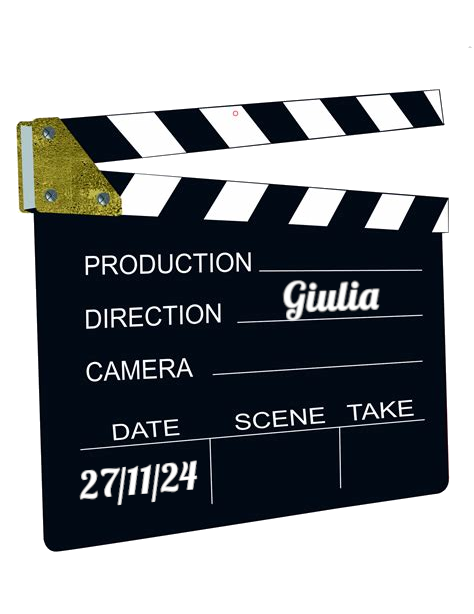
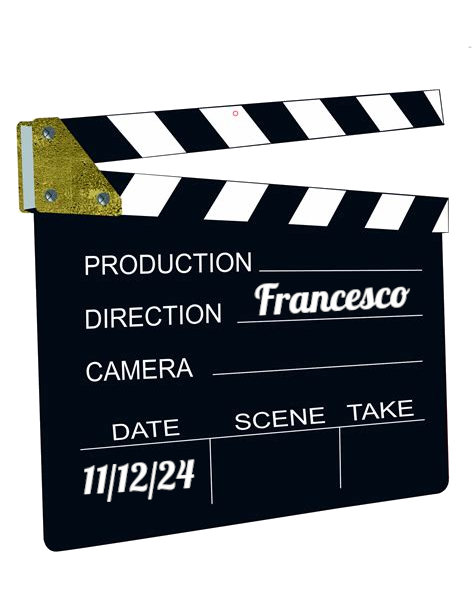
Giurato numero 2

Changed region(s): [[0.5316, 0.4332, 0.8861, 0.5261], [0.1477, 0.7427, 0.4135, 0.8355]]

diff --git a/index.html b/index.html
@@ -36,16 +36,12 @@
 
 <h1 class="season">Stagione 2024 / 2025</h1>
 
-<!--
 <br /><br /><hr width="90%"><hr width="90%"><br /><br />
 
 <h1>Mercoled&igrave; 11 dicembre 2024</h1>
 <h2>Alle 20:30 in Via Nizza, 72</h2>
 <img src="img/ciak.png" class="locandina"/>
-<h2>Selezionatore: <i></i></h2>
-
-<br /><br /><hr width="90%"><hr width="90%"><br /><br />
--->
+<h2>Selezionatore: <i>Francesco</i></h2>
 
 <br /><br /><hr width="90%"><hr width="90%"><br /><br />
 
@@ -58,9 +54,7 @@
 
 <h2><i>In trasferta al <a href="https://www.cinemaaquila.it/" target="_blank">Nuovo Cinema Aquila</a></i></h2>
 
-
-
-<br /><br /><hr width="90%"><hr width="90%"><br /><br />
+<br /><br /><hr width="90%"><br /><br />
 
 <h1>Mercoled&igrave; 27 novembre 2024</h1>
 

diff --git a/movieslist.html b/movieslist.html
@@ -29,6 +29,17 @@ Rassegnamoci, Cineforum a Programma Variabile - Elenco Film
   </thead>
   <tbody>
     <tr>
+      <td>4-Dic-2024</td>
+      <td>Giurato numero 2</td>
+      <td>Jolly</td>
+      <td>-</td>
+      <td>2024</td>
+      <td>Clint Eastwood</td>
+      <td>114</td>
+      <td>US</td>
+      <td><a href="https://www.imdb.com/title/tt27403986" target="_blank">https://www.imdb.com/title/tt27403986</a></td>
+    </tr>
+    <tr>
       <td>27-Nov-2024</td>
       <td>Jimmy's Hall - Una storia d'amore e libertà</td>
       <td>Giulia</td>
